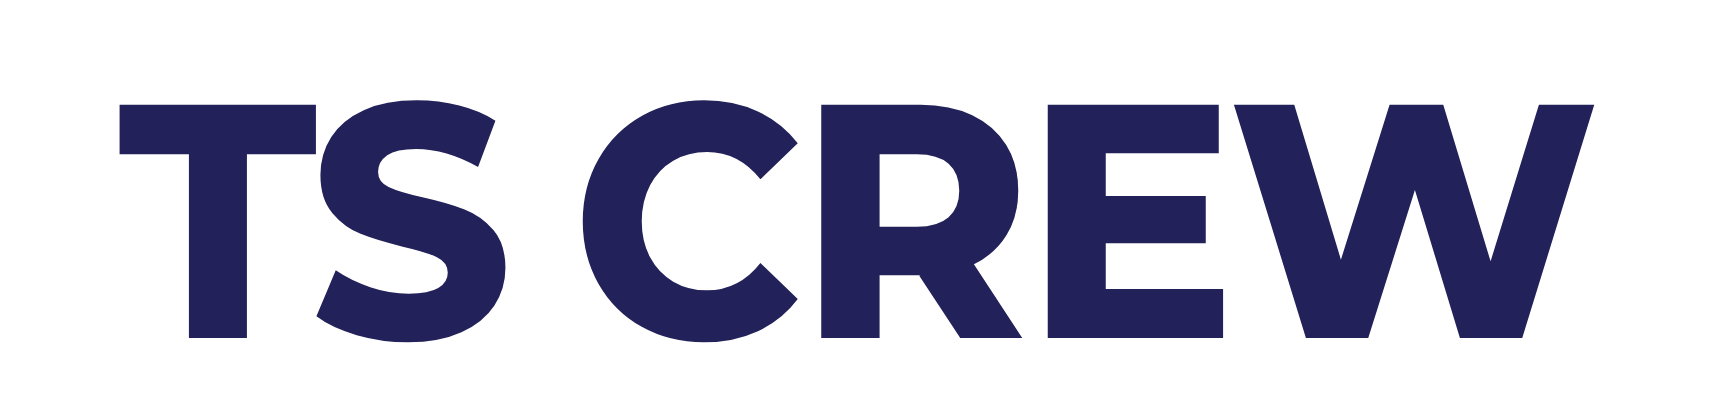
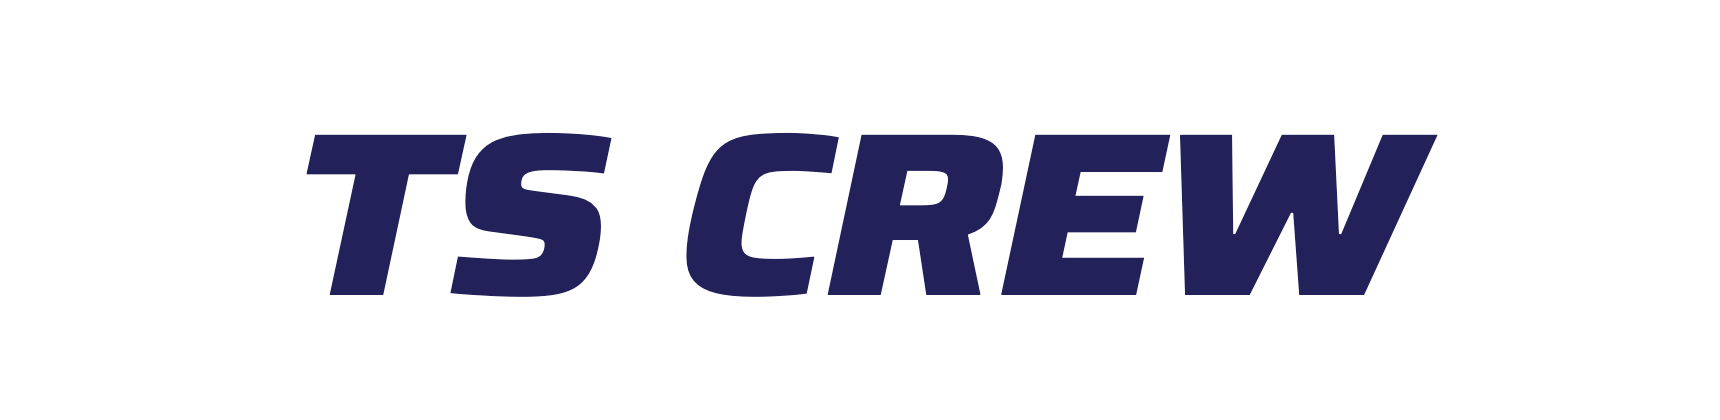
TS CREW 가로 배너 글꼴 교체 (Saira 확장 이탤릭, 흰 배경)
- tscrew-wordmark.png: 흰 배경 / -transparent: 투명 / -white: 어두운 배경용
- 대안 Archivo 확장형: tscrew-wordmark-alt-archivo.png
- 글꼴 후보 6종 비교: docs/brand/wordmark-font-options.png

Changed region(s): [[0.0616, 0.2167, 0.9244, 0.8357]]

diff --git a/docs/brand/wordmark-source.html b/docs/brand/wordmark-source.html
@@ -1,24 +1,16 @@
-<!doctype html>
-<html><head><meta charset="utf-8">
+<!doctype html><html><head><meta charset="utf-8">
+<link href="https://fonts.googleapis.com/css2?family=Archivo:wdth,wght@125,900&family=Saira:ital,wdth,wght@1,125,800&display=block" rel="stylesheet">
 <style>
-@font-face { font-family: P; font-weight: 900; src: url(fonts/Paperlogy-9Black.woff2); }
-:root { --navy: #22215a; --yellow: #ffd23f; }
+:root { --navy: #22215a; }
 html, body { margin: 0; background: transparent; }
-body { display: flex; align-items: center; justify-content: center; font-family: P; font-weight: 900; overflow: hidden; }
-.wide { width: 1720px; height: 420px; }
-.wide .t { font-size: 300px; line-height: 1; letter-spacing: 0.005em; color: var(--navy); white-space: nowrap; transform: translateY(0.04em); }
-.wide.white .t { color: #fff; }
-/* 앱 아이콘: 정사각형 꽉 채움 (iOS가 모서리를 알아서 둥글게 깎음) */
-.app { width: 180px; height: 180px; background: var(--navy); flex-direction: column; gap: 0; }
-.app .l1, .app .l2 { color: #fff; line-height: 0.8; }
-.app .l1 { font-size: 92px; letter-spacing: 0.01em; }
-.app .l2 { font-size: 44px; letter-spacing: 0.02em; margin-top: 9px; }
-</style></head>
-<body>
+body { width: 1720px; height: 420px; display: flex; align-items: center; justify-content: center; overflow: hidden; }
+.t { line-height: 1; color: var(--navy); white-space: nowrap; }
+.D { font-family: Saira; font-weight: 800; font-stretch: 125%; font-style: italic; font-size: 232px; letter-spacing: -0.01em; transform: translate(-0.03em, 0.02em); }
+.A { font-family: Archivo; font-weight: 900; font-stretch: 125%; font-size: 214px; letter-spacing: -0.01em; transform: translateY(0.03em); }
+body.white .t { color: #fff; }
+</style></head><body>
 <script>
-const v = new URLSearchParams(location.search).get('v');
-const b = document.body;
-if (v === 'app') { b.className = 'app'; b.innerHTML = '<div class="l1">TS</div><div class="l2">CREW</div>'; }
-else { b.className = 'wide' + (v === 'white' ? ' white' : ''); b.innerHTML = '<div class="t">TS CREW</div>'; }
-</script>
-</body></html>
+const p = new URLSearchParams(location.search);
+document.body.className = p.get('c') || '';
+document.body.innerHTML = '<div class="t ' + p.get('f') + '">TS CREW</div>';
+</script></body></html>
